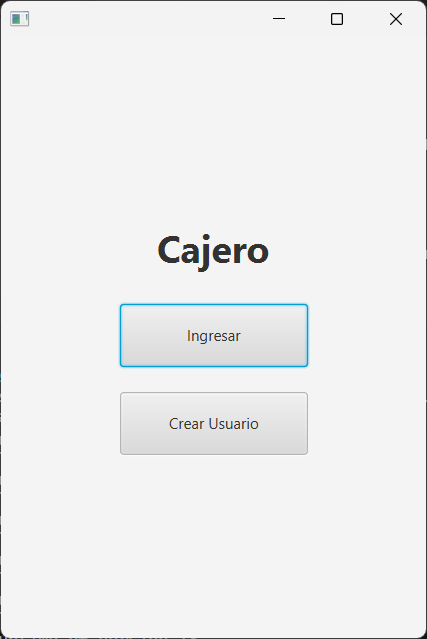
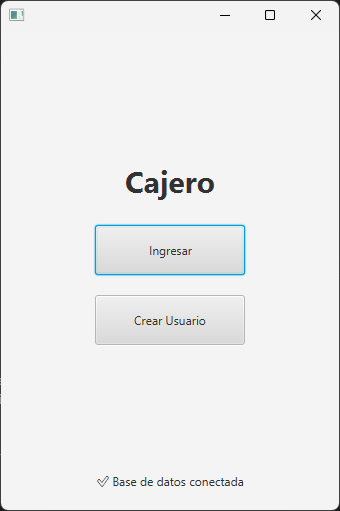
docs: Nuevas pantallas con conexión a BD

diff --git a/README.md b/README.md
@@ -40,6 +40,13 @@ Para la contraseña se utiliza un hash bcrypt(12) - [generador de hash online](h
 
 ![alt text](images/transaccionar.png)
 
+### 6. Ver cuentas
+
+> [!NOTE]
+> Solo para administradores (rol: admin)
+
+![alt text](images/verCuentas.png)
+
 ## Base de datos
 
 ### Contenedor MariaDB
@@ -57,6 +64,7 @@ podman run -d \
   mariadb:noble
 ```
 
+> [!NOTE]
 > Se puede acceder a este contenedor mediante el localhost:3306
 
 **Acceder a la base de datos en el contenedor**
